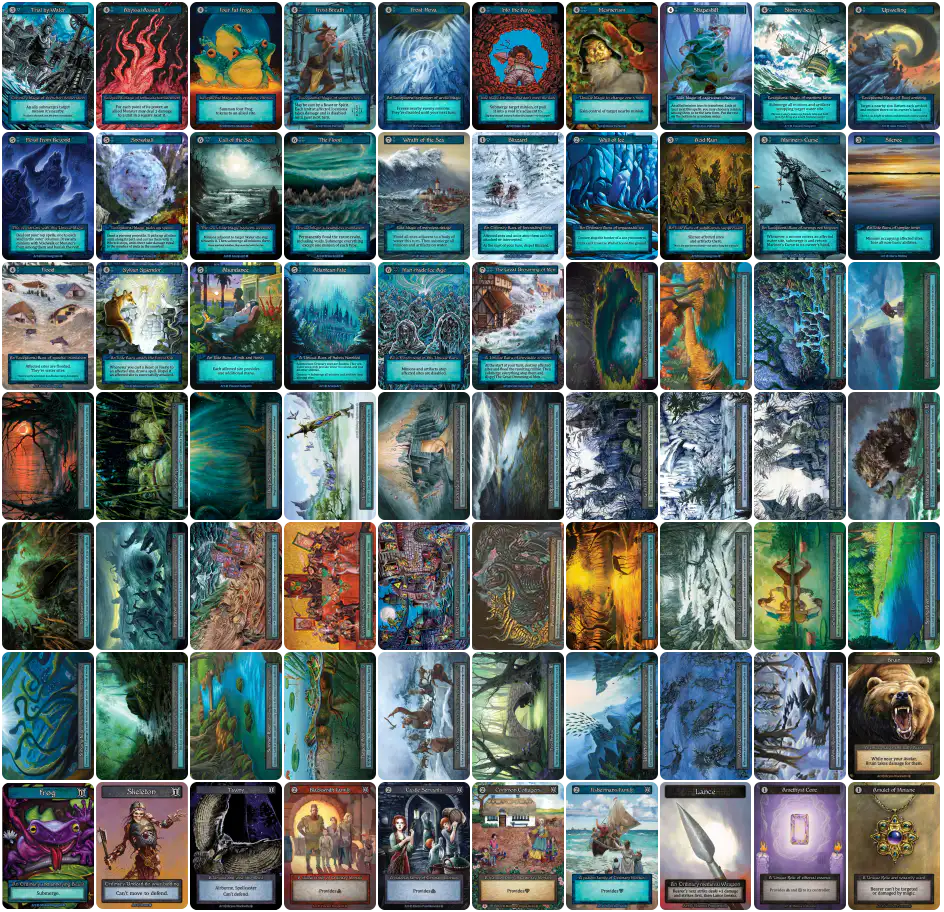
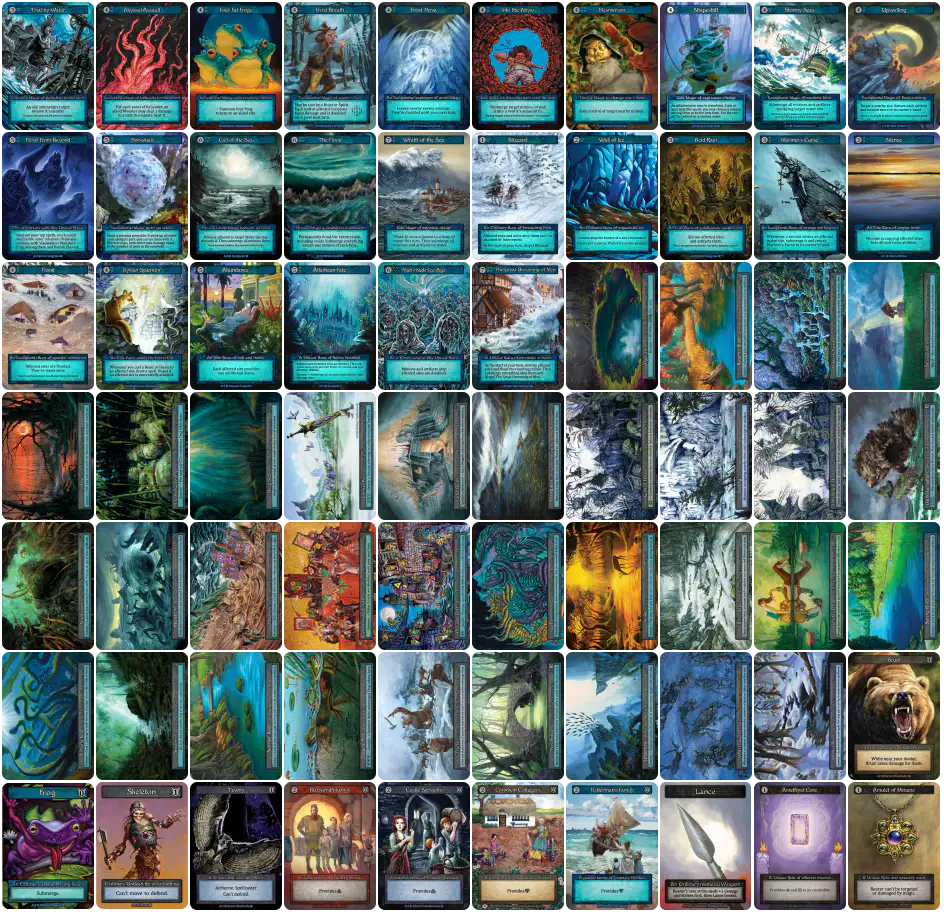
Replace Permafrost photo with official artwork and refresh atlases

Changed region(s): [[0.4915, 0.5526, 0.6144, 0.7368]]

diff --git a/docs/card-catalog-updates.md b/docs/card-catalog-updates.md
@@ -25,16 +25,18 @@ The published set name is retained exactly, as is the API's `Promo` set name.
 The browser cache revision is `2026-11-16`; earlier caches refresh once and
 prefer the newer bundled snapshot on failure. Guest/account data is not reset.
 
-The owner's **73 downloaded official WebPs** were imported on 16 November from
-the project-local `tmp/New Cards/` directory. Exact printing slugs were matched
+The owner's **74 downloaded official WebPs** were imported on 16 November from
+the project-local `tmp/New Cards/` directory and the subsequent Permafrost
+attachment. Exact printing slugs were matched
 to the official catalogue before renaming into `public/assets/Cards`. Fifty-five
-files retain their original bytes; 18 sideways sites were rotated clockwise
+files retain their original bytes; 19 sideways sites were rotated clockwise
 into landscape WebPs with lossless encoding and verified visible pixels/alpha.
 The import record and hashes are in `offlineData/card-images/2026-11-16.json`.
 Original downloads remain locally in `tmp/imported-card-originals-2026-11-16`.
 
-These replace 70 photo scans plus Flame Wave, Polar Bears and Rubble. Permafrost
-was absent from the downloads and keeps its photo image with official metadata.
+These replace all 71 photo scans plus Flame Wave, Polar Bears and Rubble.
+Permafrost's official image completes the replacement; no photo images remain
+in use for the photographed set.
 Reprints use current engine rules/statistics: Polar Bears is cost 3, power 3;
 Fireball uses the updated explosion text. No older printing overrides the
 current rules. All standalone thumbnails and both atlas tiers are current:

diff --git a/docs/card-photo-imports.md b/docs/card-photo-imports.md
@@ -8,10 +8,10 @@ name is `Reed Cord Measurer`; saved uses of the photographed hyphenated name
 migrate automatically. Humming Hummocks' artist is confirmed as **Jeff A.
 Menges**. The historical uncertainty below describes the initial photo import.
 
-The owner subsequently supplied 73 official WebPs on 16 November. These replace
-70 of the 71 photo images, plus the earlier Flame Wave, Polar Bears and Rubble
-images. **Permafrost keeps its photo image** because no official download was
-supplied. All thumbnails and both atlas tiers have been rebuilt. See the
+The owner subsequently supplied 74 official WebPs on 16 November, including
+Permafrost in a follow-up attachment. These replace all 71 photo images, plus
+the earlier Flame Wave, Polar Bears and Rubble images. All thumbnails and both
+atlas tiers have been rebuilt. See the
 [current import record](../offlineData/card-images/2026-11-16.json) and
 [catalogue update notes](card-catalog-updates.md). The photos and transcriptions
 below remain an archive of the initial import, not the active metadata source.

diff --git a/docs/lod-atlas-optimization.md b/docs/lod-atlas-optimization.md
@@ -49,8 +49,8 @@ After the current rebuild:
 | Output | Pages/files | Wire size | Decoded RGBA total | Largest page |
 | --- | ---: | ---: | ---: | ---: |
 | `CardsThumb` | 1,177 files | 3.28 MiB | per-file fallback | n/a |
-| `CardsThumbAtlas` | 17 pages | 3.10 MiB | 55.4 MiB | `944x912` |
-| `CardsMediumAtlas` | 99 pages | 21.30 MiB | 482.6 MiB | `1112x1160` |
+| `CardsThumbAtlas` | 17 pages | 3.11 MiB | 55.4 MiB | `944x912` |
+| `CardsMediumAtlas` | 99 pages | 21.31 MiB | 482.6 MiB | `1112x1160` |
 
 Each full medium atlas page decodes to about `4.92 MiB` of RGBA pixels. The
 wire size is only about 21 MiB, but the decoded total is roughly 483 MiB before
